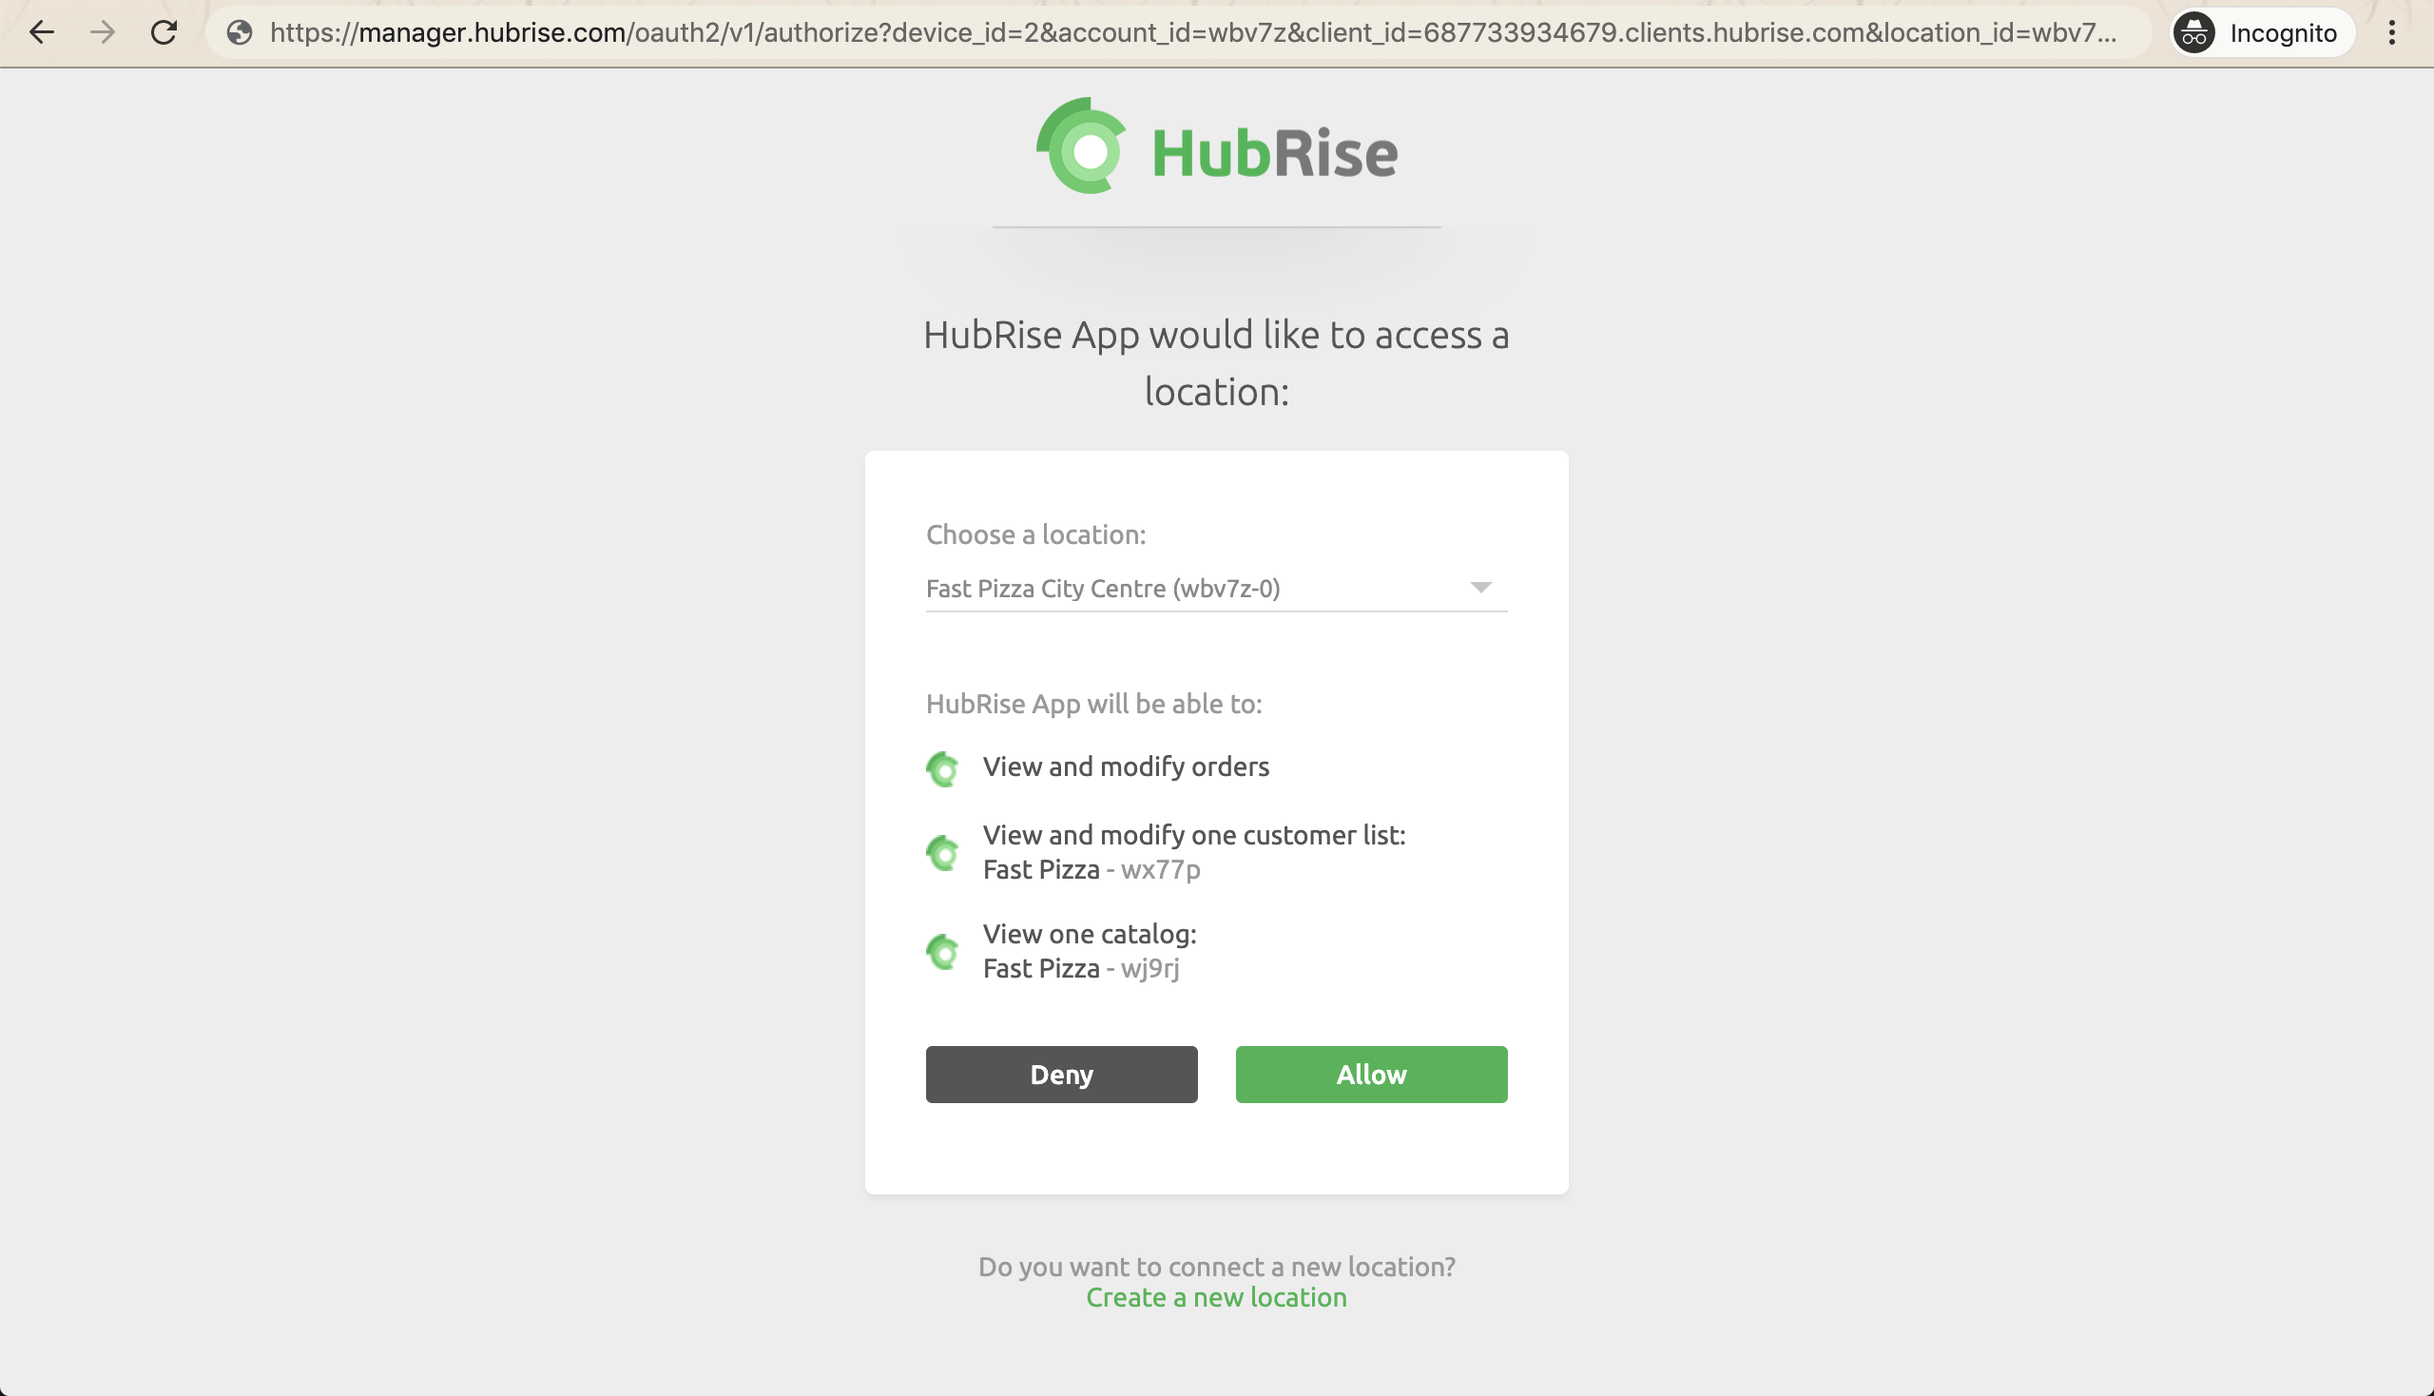
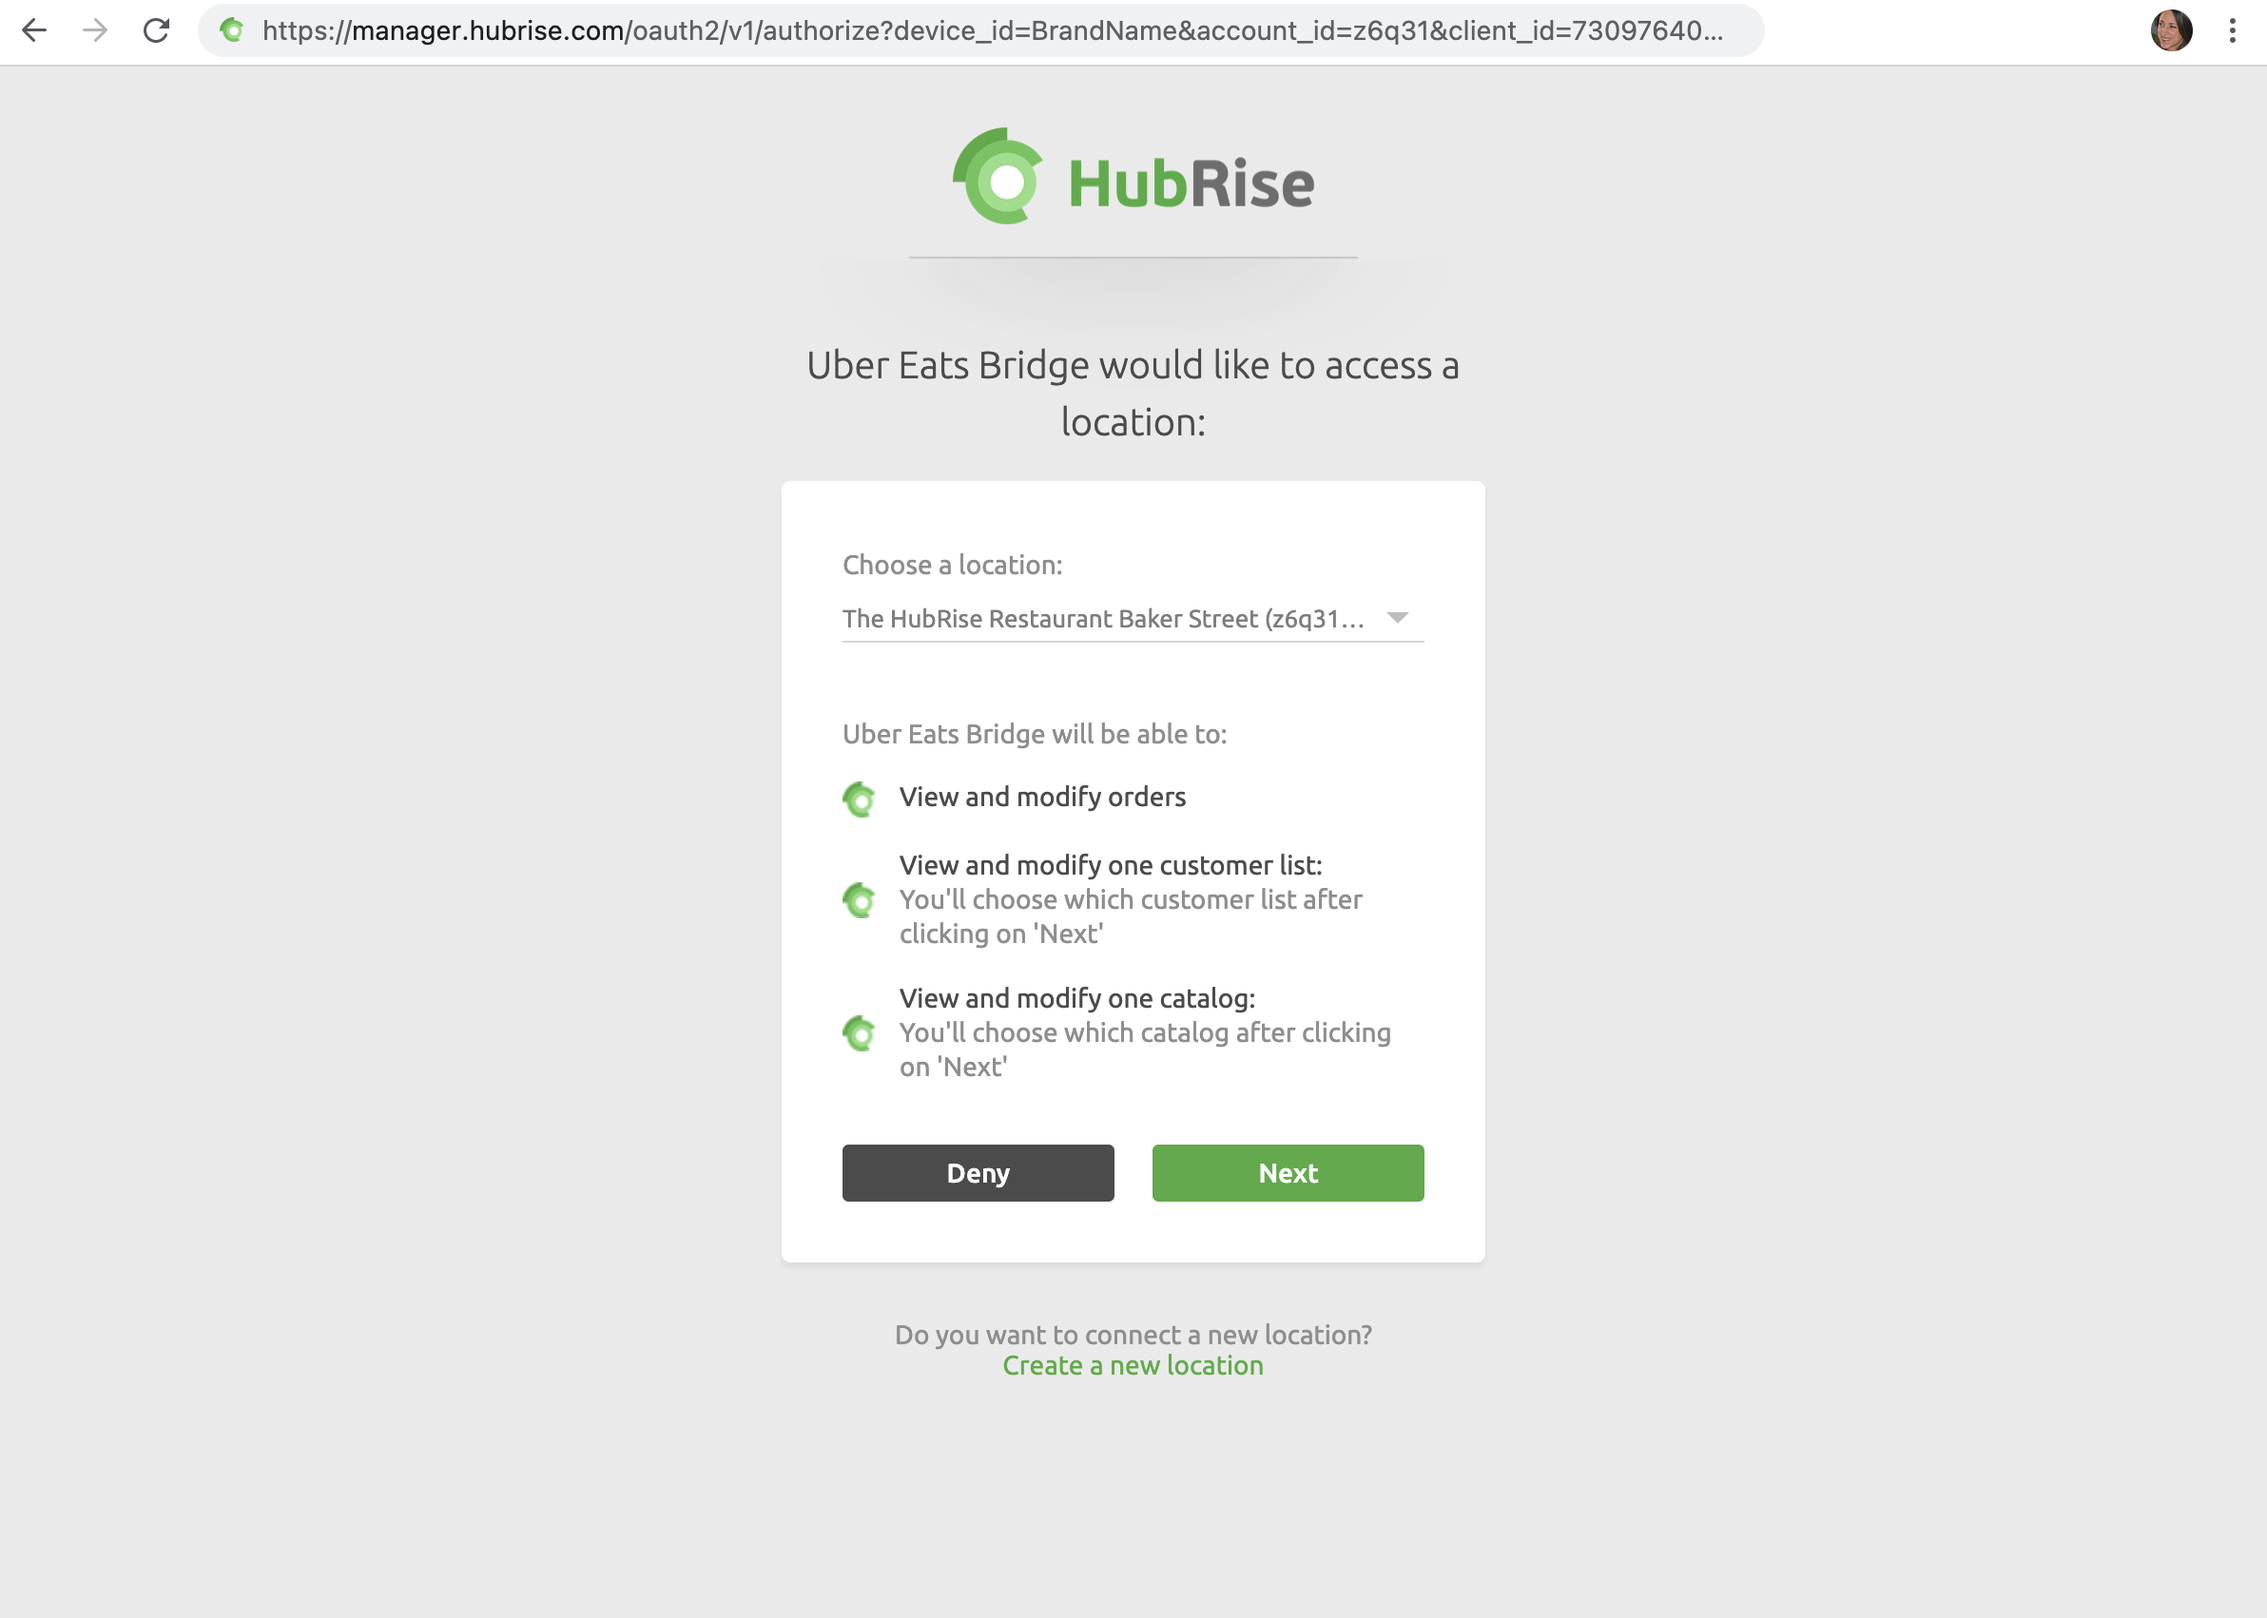
[CONNECT MULTIPLE APPS] Replaced default device ID

diff --git a/content/docs/faqs/en/connect-multiple-instances-same-app.md b/content/docs/faqs/en/connect-multiple-instances-same-app.md
@@ -18,7 +18,7 @@ To connect the second instance of the app, follow these steps.
 1. Select **View available apps**.
 1. Select the same app you installed before, then click **Connect**.
 1. In the authorisation page, select the correct HubRise location from the dropdown menu.
-1. Click on the URL in the navigation bar and include `device_id=2&` after the initial portion of the URL: `https://manager.hubrise.com/oauth2/v1/authorize?`, and before `account_id=`.
+1. Click on the URL in the navigation bar and include `device_id=BrandName&` after the initial portion of the URL: `https://manager.hubrise.com/oauth2/v1/authorize?`, and before `account_id=`. BrandName within `device_id=BrandName&` should be replaced by the name of the brand. For more information, see [Naming Rules](#naming-rules).
    ![Authorisation page with URL including the `device_id=2&` string.](../../images/066-en-autorisation-page-device-id.png)
 1. Then hit the Return key on your keyboard.
 1. Click **Allow** to connect the app.
@@ -40,7 +40,7 @@ You will be able to distinguish the various instances by the device ID value you
 ## Naming Rules
 
 To help you identify your app instances, you can freely choose the device ID value during the initial setup.
-You can include any combination of the following characters:
+In `device_id=BrandName&`, BrandName can include any combination of the following characters:
 
 - Letters, both lowercase and uppercase
 - Numbers
